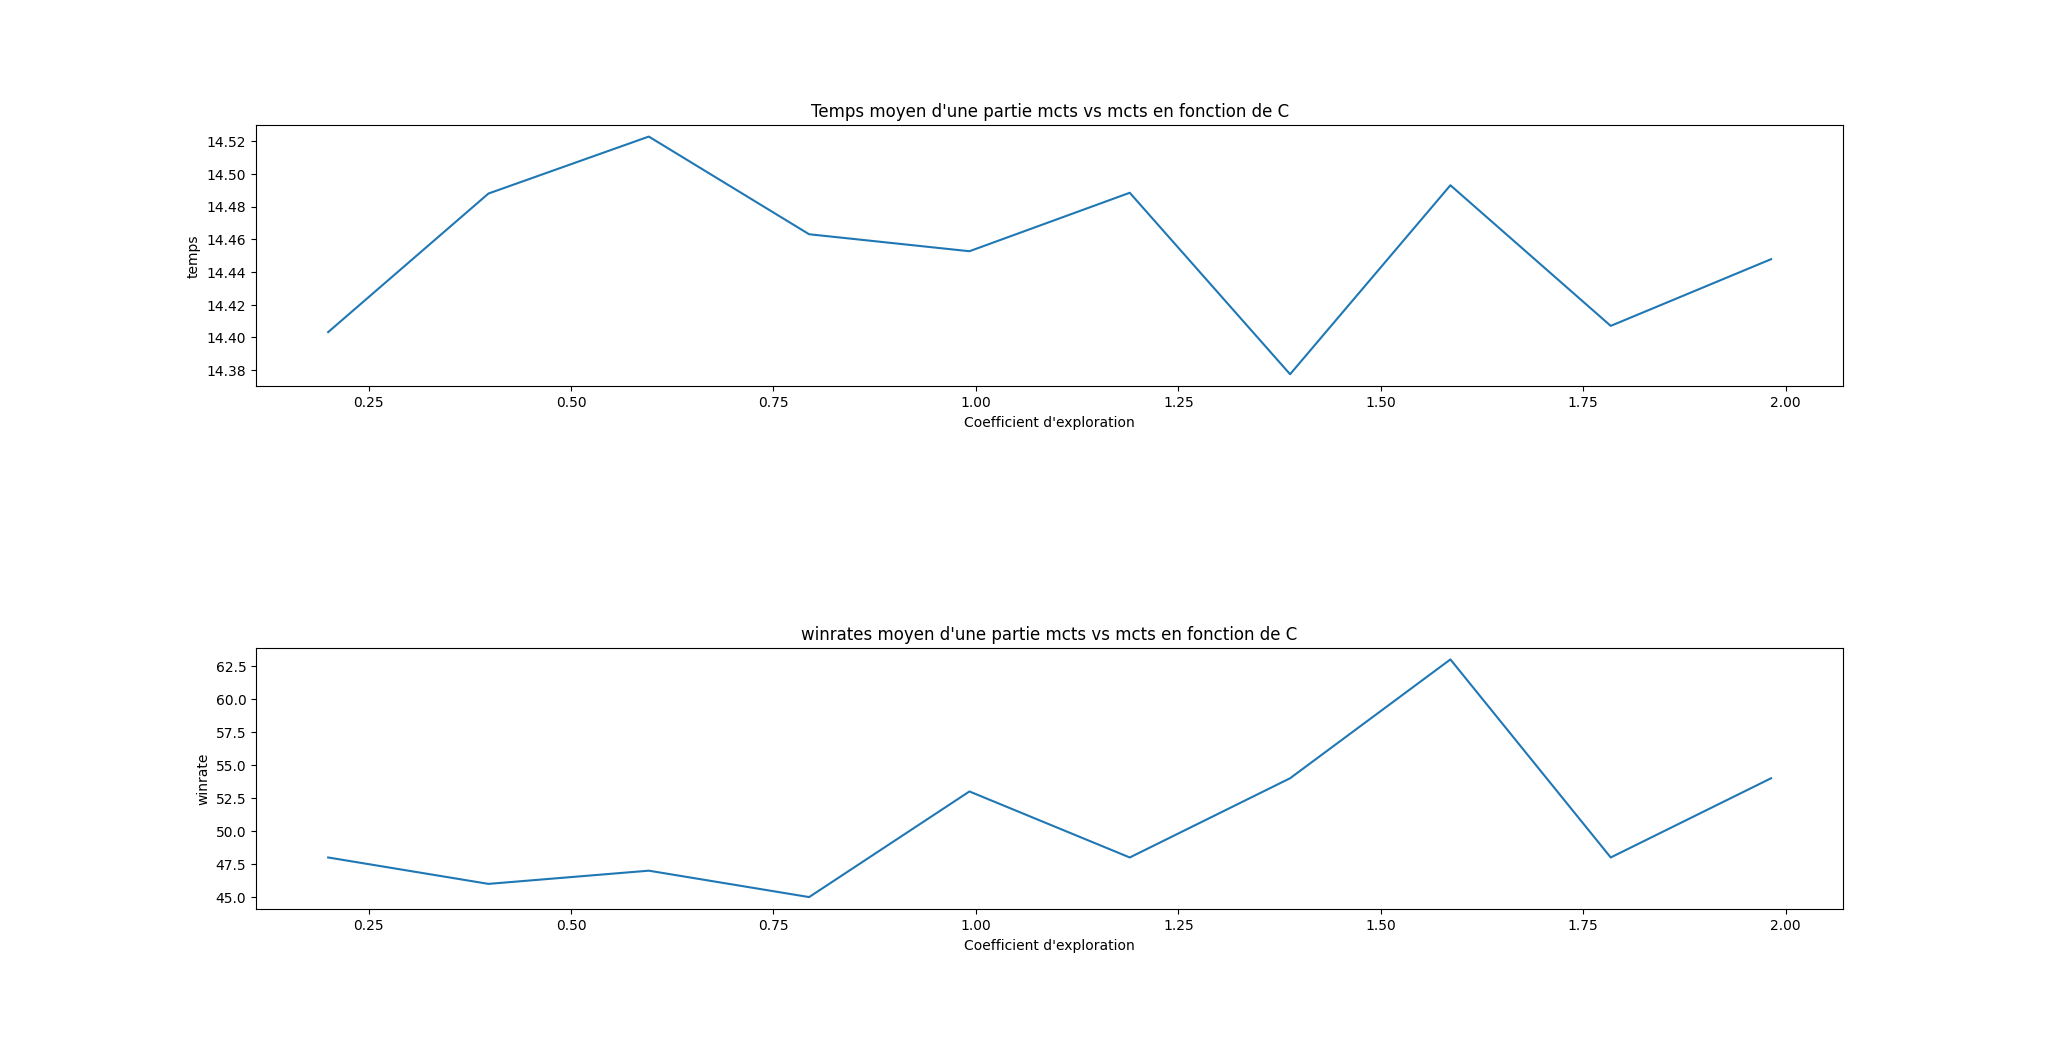
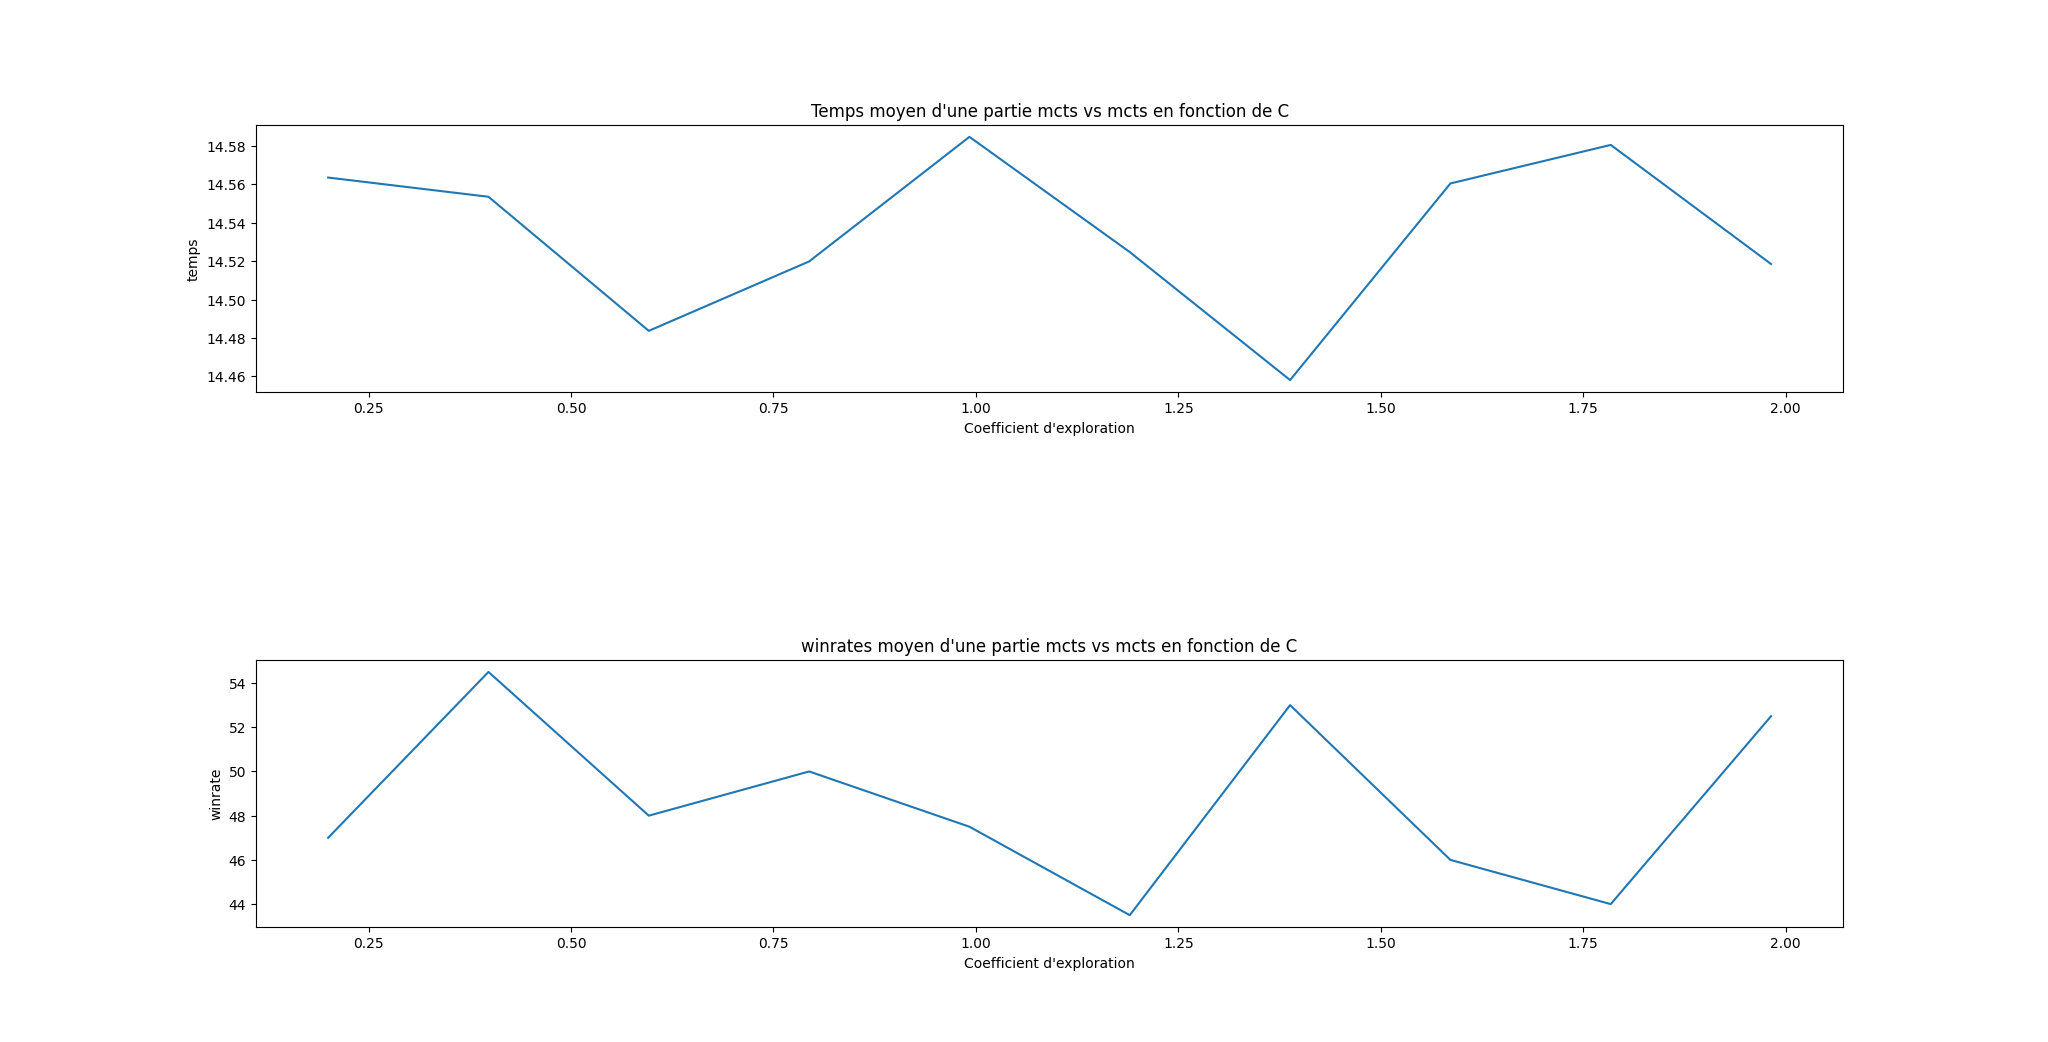
readme

diff --git a/README.md b/README.md
@@ -1,5 +1,8 @@
 # AI-Jeux
 Le projet est codé avec python 3.10.
+Matériel de travail: 
+    CPU : Rayson 5, 12 coeurs logiques
+    GPU : 
 
 # IA random
 
@@ -43,12 +46,30 @@ Le projet est codé avec python 3.10.
 
 ## MCTS
 
-    Pour cette partie nous avons implémenté l'algorithme MCTS. Pour nous avons décidé de de fixer le nombre de simulation de l'algorithme de MC à 100. Comme condition de fin nous avons choisi une condtion temporelle.
-    Notre algorithme de MCTS calcule un abre avec une constante d'esploration C=2 pendant l'exécution des cycles : sélection, exploration, simulation, remonté. Et pour sorti on utilise une contante C déterminer par l'utilisateur pour sélectionné les meileurs mouvements.
+Pour cette partie nous avons implémenté l'algorithme MCTS. Pour nous avons décidé de de fixer le nombre de simulation de l'algorithme de MC à 100. Comme condition de fin nous avons choisi une condtion temporelle.
+Notre algorithme de MCTS calcule un abre avec une constante d'esploration C=2 pendant l'exécution des cycles : sélection, exploration, simulation, remonté. Et pour sorti on utilise une contante C déterminer par l'utilisateur pour sélectionné les meileurs mouvements.
 
-    Pour comprendre la diférérenc une constante d'exploration C faible ou forte, on a simulé plusieurs parties de jeu en faisant un combats MCTS contre MCTS, tout deux avec les même paramêtre. On a supossé qu'on aurais un ratio de victoire de 1/2.
+Pour comprendre la diférérence entre une constante d'exploration C faible et forte, on a simulé plusieurs parties de jeu en aillant un combat MCTS contre MCTS, tout deux avec les même paramêtre. On a supossé qu'on aurais un ratio de victoire de 1/2.
+#### condition d'arret 0,5 seconde
 
-    ![plot](./Figure_3.png)
+![plot](./Figure_1.png)
+Noton qu'un point est une moyenne sur 200 simulations et que le temps est en seconde. 
 
+Comme on s'y attendait le temps de calcul d'une partie varie peu au cours du temps en fonction de C. On remanque également que les ratio de victoire oscille autour de 50% plus avec pour amplitude 5%. Ce montre que C n'a pas un role maujeur dans le score d'une partie. 
+
+Cette conclusion nous montre que notre algorithme ne fonctione pas correctement et qu'il se raproche trop d'un algorithme MC en particulier de IA100P. Après réflexion nous avon décidé de modifier la condition d'arrêt.
+On passe d'un fonctionnement de 0,5 seconde maximum à un temps variable suivant l'équation:
     
+    t(x = nombre de movement possible a se tour) = 4x/p  
+    p = nombre de movement possible au début du jeu soit 56.
 
+Cette équation permet d'avoir un temps de calcul plus grand en début de partie où les possibilitées de mouvements sont nombreseuses et un temps de calcul plus petit en fin de partie où le nombre de mouvements est faible et que les posibilitées de changer le score sont fortement réduites. Cela permet de réduire le temps de calcul de manière fignificative pour notre simulation.
+
+#### Condition d'arret 4x/p seconde
+![plot](./Figure_2.png)
+Noton qu'un point est une moyenne sur 200 simulations et que le temps est en seconde. 
+
+Comme on peut encore constater le temps varie très peu celon C. Le temps moyen d'une partie est de 54s environ, contre 14s. Cela montre que l'algorithme MCTS à pris plus de temps pour estimer un abre des posibles mouvements.
+Deplus on voit un plus grand disparité dans les ration de victoire. Il est difficile de conclure pour quel valeur de C MCTS peut gagner contre lui-même. Cepandant il est évident que notre hypose d'avoire un ratio de 50% est fause par la grande disparité des valeurs.
+
+Pour conclure cette partie on peu pour que si pour C environ égale à 0.5, on a une fort taux de victoire, peut être es-ce dû à un avantage du premier coup. Réciproquement si C environ égale à 1,75, on a un fort taux de défaite, certainement que l'adversaire 'imagine' des contre sur plusieurs tours car il ne commence pas et peux ainsi avoir la victoire. 
